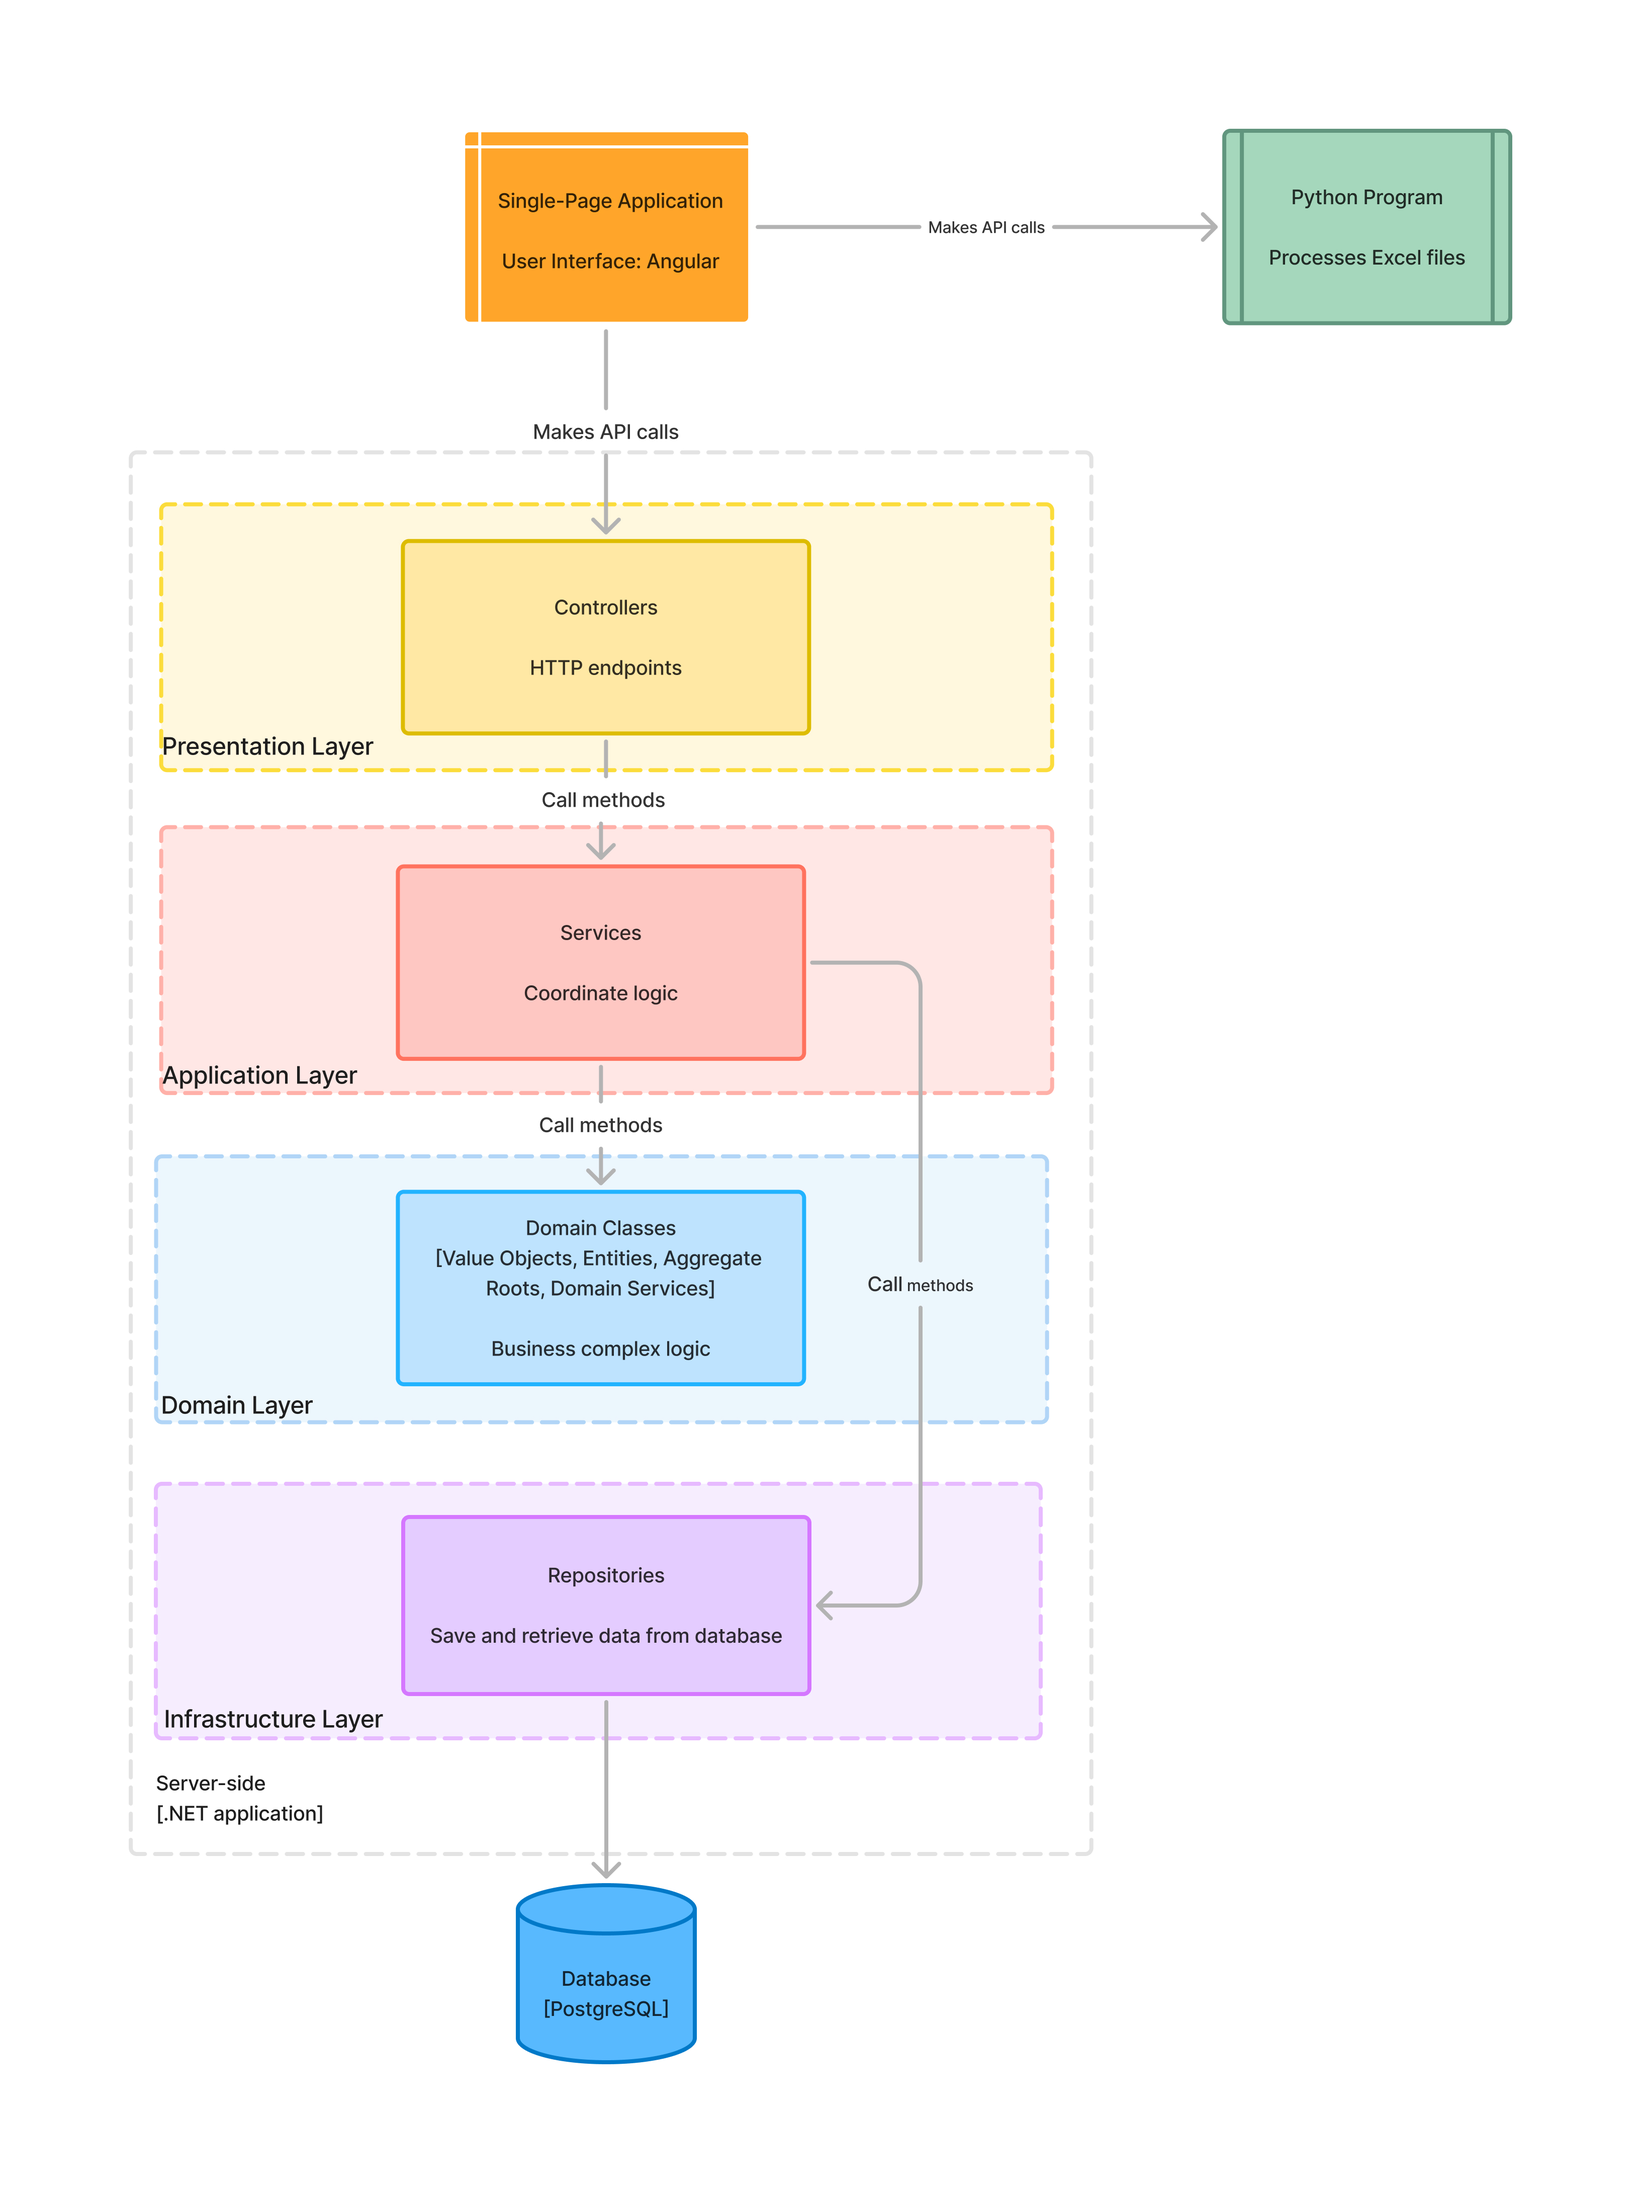
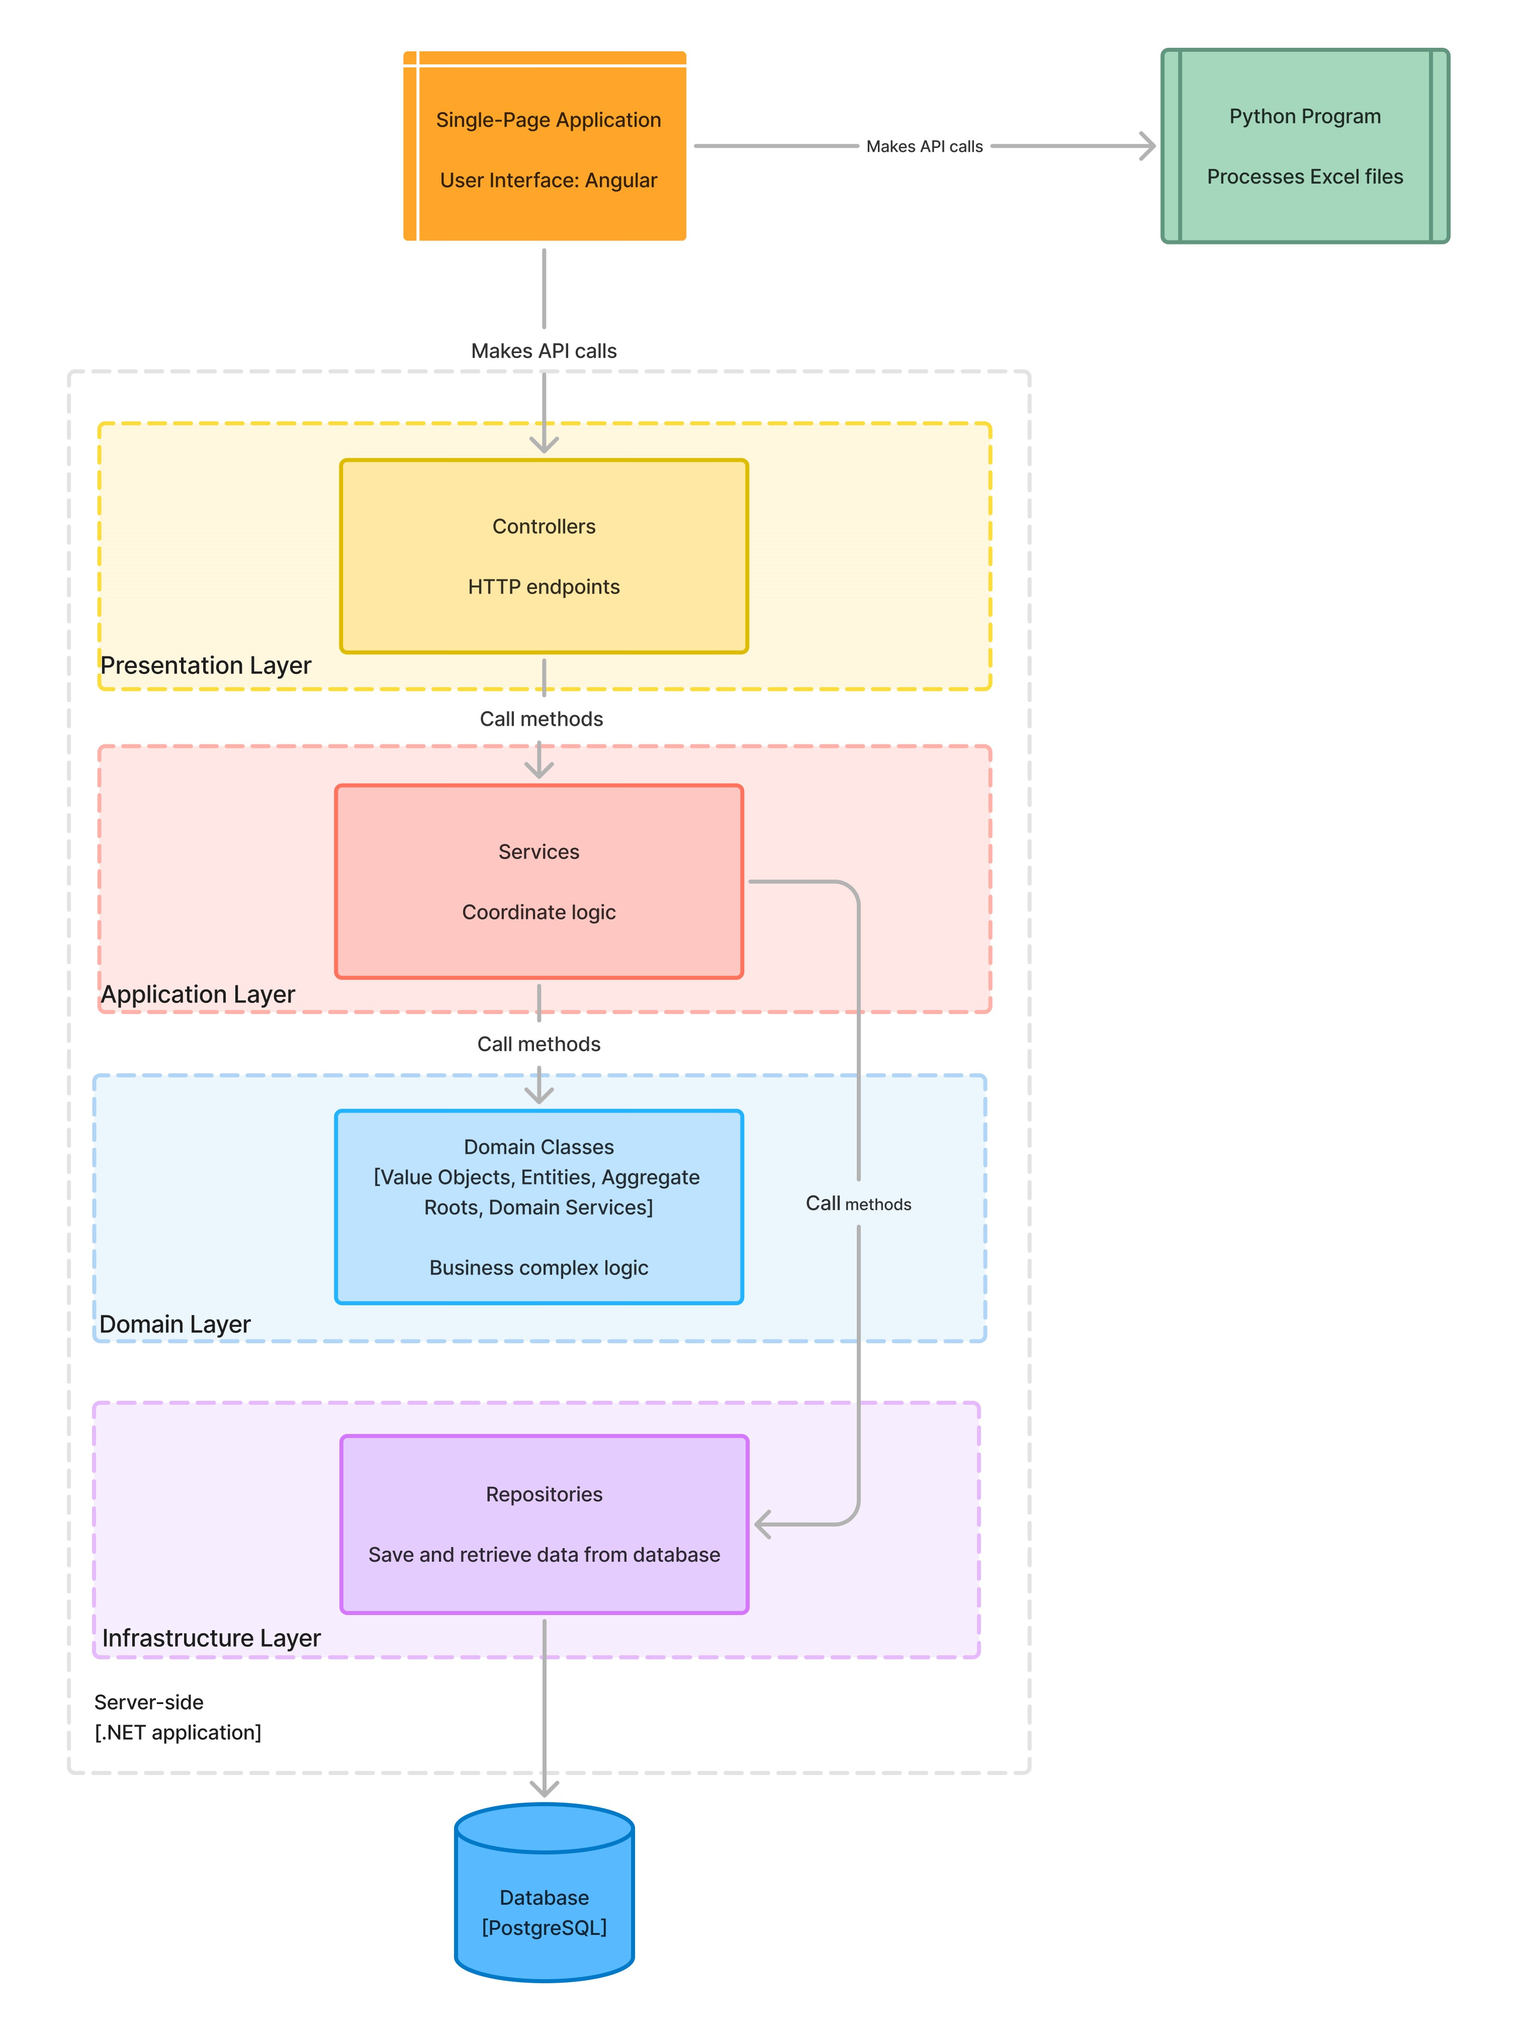
Readme
* chore: change readme

* chore: change readme

* chore: change readme

* chore: change readme

* chore: change readme

diff --git a/README.md b/README.md
@@ -2,7 +2,8 @@
 
 ## Introduction
 
-This project was developed for the **Public Health Institution "Sveti Vračevi" Hospital** in Bijeljina as part of our **graduation thesis**. The software is specifically tailored for their hospital kitchen, streamlining processes related to meal planning, ingredient procurement, and inventory management. By optimizing resource management and enabling precise meal planning, the system helps ensure timely meal preparation, reduces costs and waste, and contributes to the overall health and recovery of patients. The full application demo can be downloaded [here](https://github.com/MilenaM06/Hospital-Kitchen-Support-Application/blob/main/preview/app-demo.mp4). The class-diagram is available [here](https://github.com/MilenaM06/Hospital-Kitchen-Management-System/blob/main/planning-and-modeling/class-diagram/class-diagram.png).
+- This project was developed for the **Public Health Institution "Sveti Vračevi" Hospital** in Bijeljina as part of our **graduation thesis**. The software is specifically tailored for their hospital kitchen, streamlining processes related to meal planning, ingredient procurement, and inventory management. By optimizing resource management and enabling precise meal planning, the system helps ensure timely meal preparation, reduces costs and waste, and contributes to the overall health and recovery of patients. 
+- The full application demo can be downloaded [here](https://github.com/MilenaM06/Hospital-Kitchen-Support-Application/blob/main/preview/app-demo.mp4). The class-diagram is available [here](https://github.com/MilenaM06/Hospital-Kitchen-Management-System/blob/main/planning-and-modeling/class-diagram/class-diagram.png).
 
 
 ## Software Development Life Cycle (SDLC)
@@ -10,6 +11,26 @@ This project was developed for the **Public Health Institution "Sveti Vračevi" 
 - We followed all phases of the Software Development Life Cycle (SDLC) during the development of this application. The entire project timeline is illustrated in the diagram below.
 
 ![sdlc](https://github.com/MilenaM06/Hospital-Kitchen-Management-System/blob/main/planning-and-modeling/project-timeline-diagram.jpg)
+
+
+## Technologies Used
+
+- **Angular**: For building the frontend of the application, providing a dynamic and responsive user experience.
+- **.NET**: For backend services, ensuring reliable business logic and data management.
+- **PostgreSQL**: For managing the application's database, ensuring secure and efficient data storage.
+
+
+## Tools Used
+
+- **Figma**: For designing the user interface and creating visual wireframes and prototypes.
+- **Draw.io**: For creating system architecture diagrams and flowcharts.
+- **Visual Studio**: For backend development with .NET.
+- **Visual Studio Code**: For frontend development with Angular.
+
+
+## Solution Architecture
+
+![architecture](https://github.com/MilenaM06/Hospital-Kitchen-Management-System/blob/main/planning-and-modeling/architecture.jpg)
 
 
 ## Key Features
@@ -32,24 +53,6 @@ This project was developed for the **Public Health Institution "Sveti Vračevi" 
 ![warehouse](https://github.com/MilenaM06/Hospital-Kitchen-Support-Application/blob/main/preview/screenshots/warehouse.jpg)
 #### New Fiscal Year 
 ![newYear](https://github.com/MilenaM06/Hospital-Kitchen-Support-Application/blob/main/preview/screenshots/new-fiscal-year.jpg)
-
-
-## Technologies Used
-
-### Solution Architecture
-![architecture](https://github.com/MilenaM06/Hospital-Kitchen-Management-System/blob/main/planning-and-modeling/architecture.jpg)
-
-- **Angular**: For building the frontend of the application, providing a dynamic and responsive user experience.
-- **.NET**: For backend services, ensuring reliable business logic and data management.
-- **PostgreSQL**: For managing the application's database, ensuring secure and efficient data storage.
-
-
-## Tools Used
-
-- **Figma**: For designing the user interface and creating visual wireframes and prototypes.
-- **Draw.io**: For creating system architecture diagrams and flowcharts.
-- **Visual Studio**: For backend development with .NET.
-- **Visual Studio Code**: For frontend development with Angular.
 
 
 ## Authors
